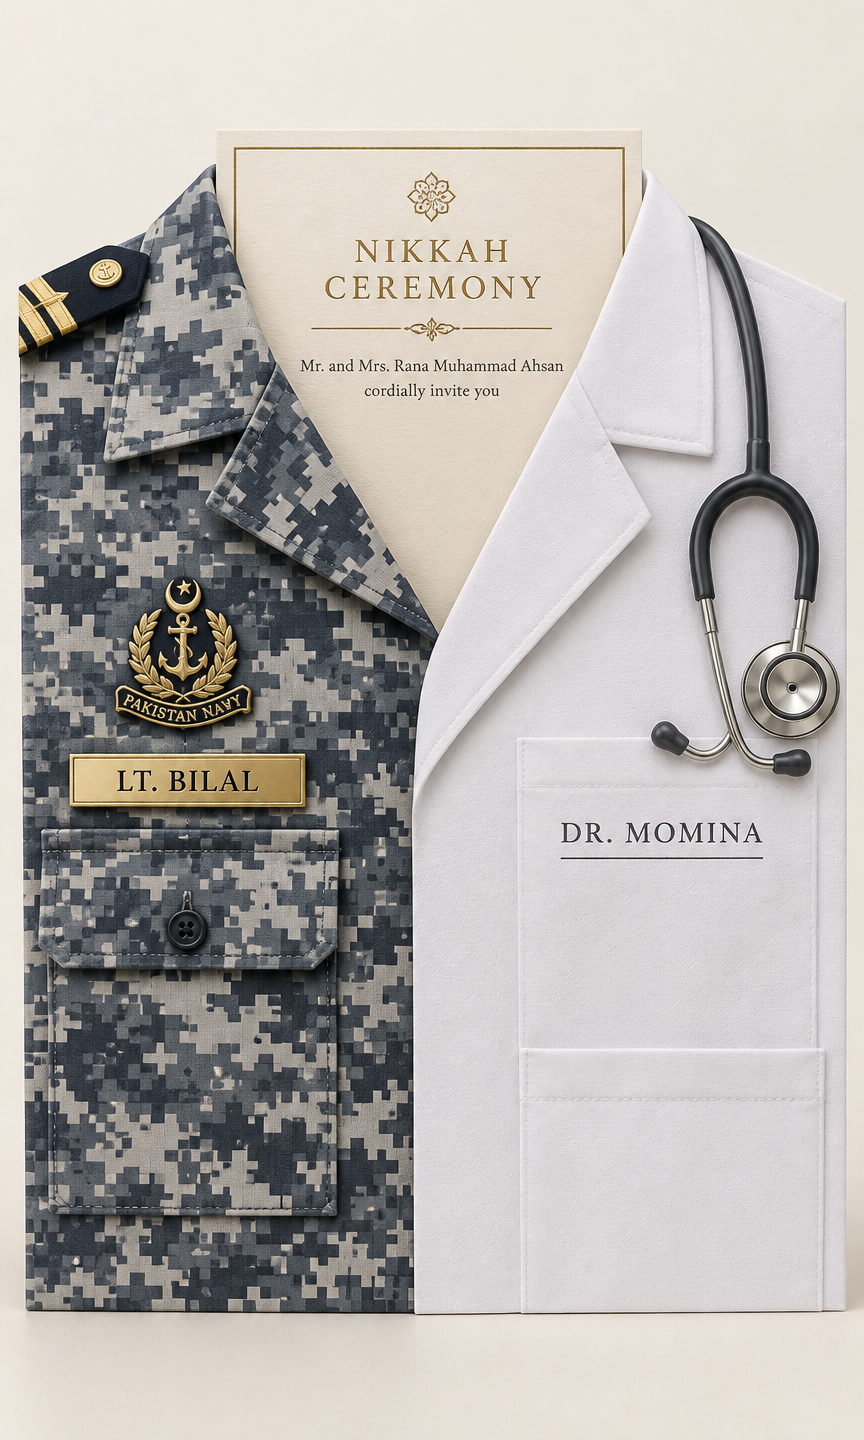
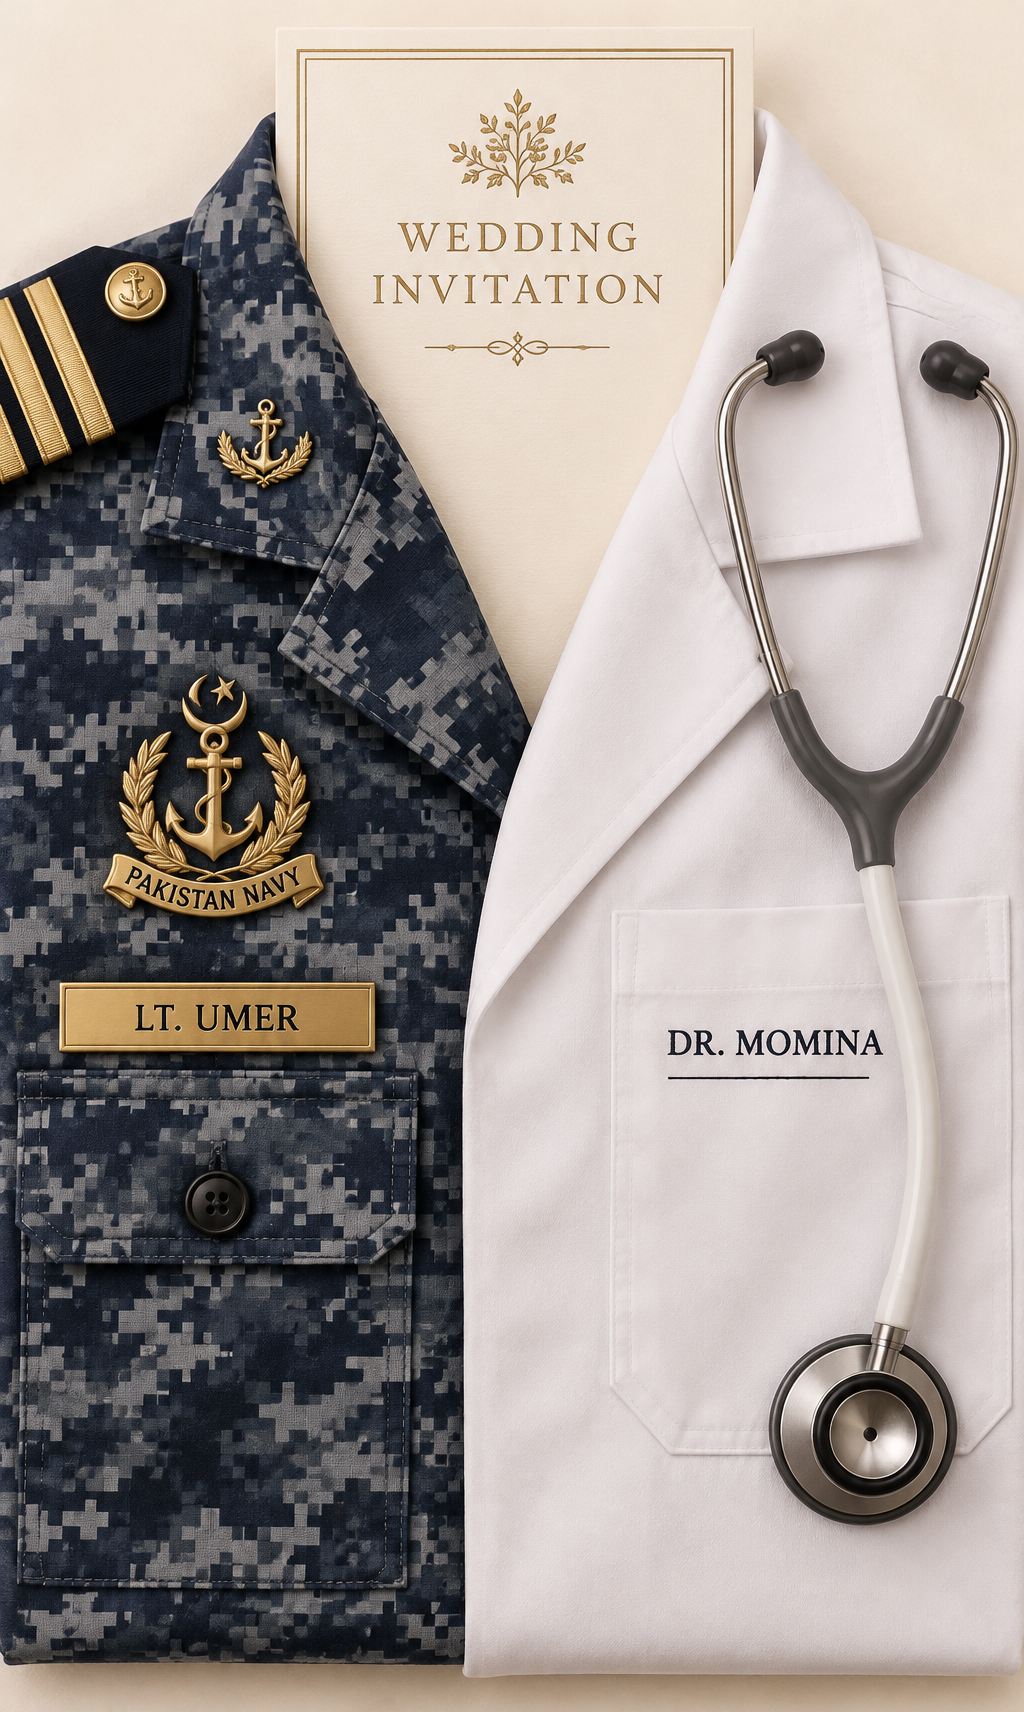
Changes

diff --git a/src/components/invitation/CoverCard.tsx b/src/components/invitation/CoverCard.tsx
@@ -1,37 +1,65 @@
-import { useState } from "react";
+import { useEffect, useRef, useState } from "react";
+import coverFull from "@/assets/cover-card.png";
 import coverLeft from "@/assets/cover-left.png";
 import coverRight from "@/assets/cover-right.png";
 
+// The two halves slide off to their own sides revealing the full joined card,
+// which then lifts gracefully into the invitation.
+const SLIDE_MS = 1300;
+const PAUSE_MS = 250;
+const LIFT_MS = 950;
+
 interface CoverCardProps {
+  /** Fires as the full card begins lifting — reveal the invitation & start music. */
   onOpen: () => void;
+  /** Fires once the cover has fully faded — safe to unmount the overlay. */
+  onClosed: () => void;
 }
 
-export function CoverCard({ onOpen }: CoverCardProps) {
-  const [opening, setOpening] = useState(false);
+export function CoverCard({ onOpen, onClosed }: CoverCardProps) {
+  const [sliding, setSliding] = useState(false);
+  const [lifting, setLifting] = useState(false);
+  const timers = useRef<number[]>([]);
+
+  useEffect(() => {
+    const pending = timers.current;
+    return () => pending.forEach((t) => window.clearTimeout(t));
+  }, []);
 
   const handleOpen = () => {
-    if (opening) return;
-    setOpening(true);
-    // Let the parting animation breathe before the cover unmounts.
-    window.setTimeout(onOpen, 1600);
+    if (sliding) return;
+    setSliding(true);
+    timers.current.push(
+      window.setTimeout(() => {
+        setLifting(true);
+        onOpen();
+      }, SLIDE_MS + PAUSE_MS),
+    );
+    timers.current.push(window.setTimeout(onClosed, SLIDE_MS + PAUSE_MS + LIFT_MS));
   };
 
   return (
     <div
-      className={`cover-overlay ${opening ? "cover-opening" : ""}`}
+      className={`cover-overlay ${sliding ? "cover-opening" : ""} ${lifting ? "cover-lifting" : ""}`}
       onClick={handleOpen}
       role="presentation"
     >
       <p
         className="font-sans text-[0.68rem] uppercase tracking-[0.45em] text-muted-foreground"
-        style={{ opacity: opening ? 0 : 1, transition: "opacity 0.4s ease" }}
+        style={{ opacity: sliding ? 0 : 1, transition: "opacity 0.4s ease" }}
       >
         You are cordially invited
       </p>
 
       <div className="cover-stage animate-float-soft">
-        <img src={coverLeft} alt="Groom's Navy uniform half of the invitation card" className="cover-half" draggable={false} />
-        <img src={coverRight} alt="Bride's doctor's coat half of the invitation card" className="cover-half" draggable={false} />
+        <img
+          src={coverFull}
+          alt="The wedding invitation card: Lt. Umer's Pakistan Navy uniform beside Dr. Momina's doctor's coat"
+          className="cover-full"
+          draggable={false}
+        />
+        <img src={coverLeft} alt="" aria-hidden className="cover-half cover-half-left" draggable={false} />
+        <img src={coverRight} alt="" aria-hidden className="cover-half cover-half-right" draggable={false} />
       </div>
 
       <button type="button" className="seal-btn" onClick={handleOpen}>
